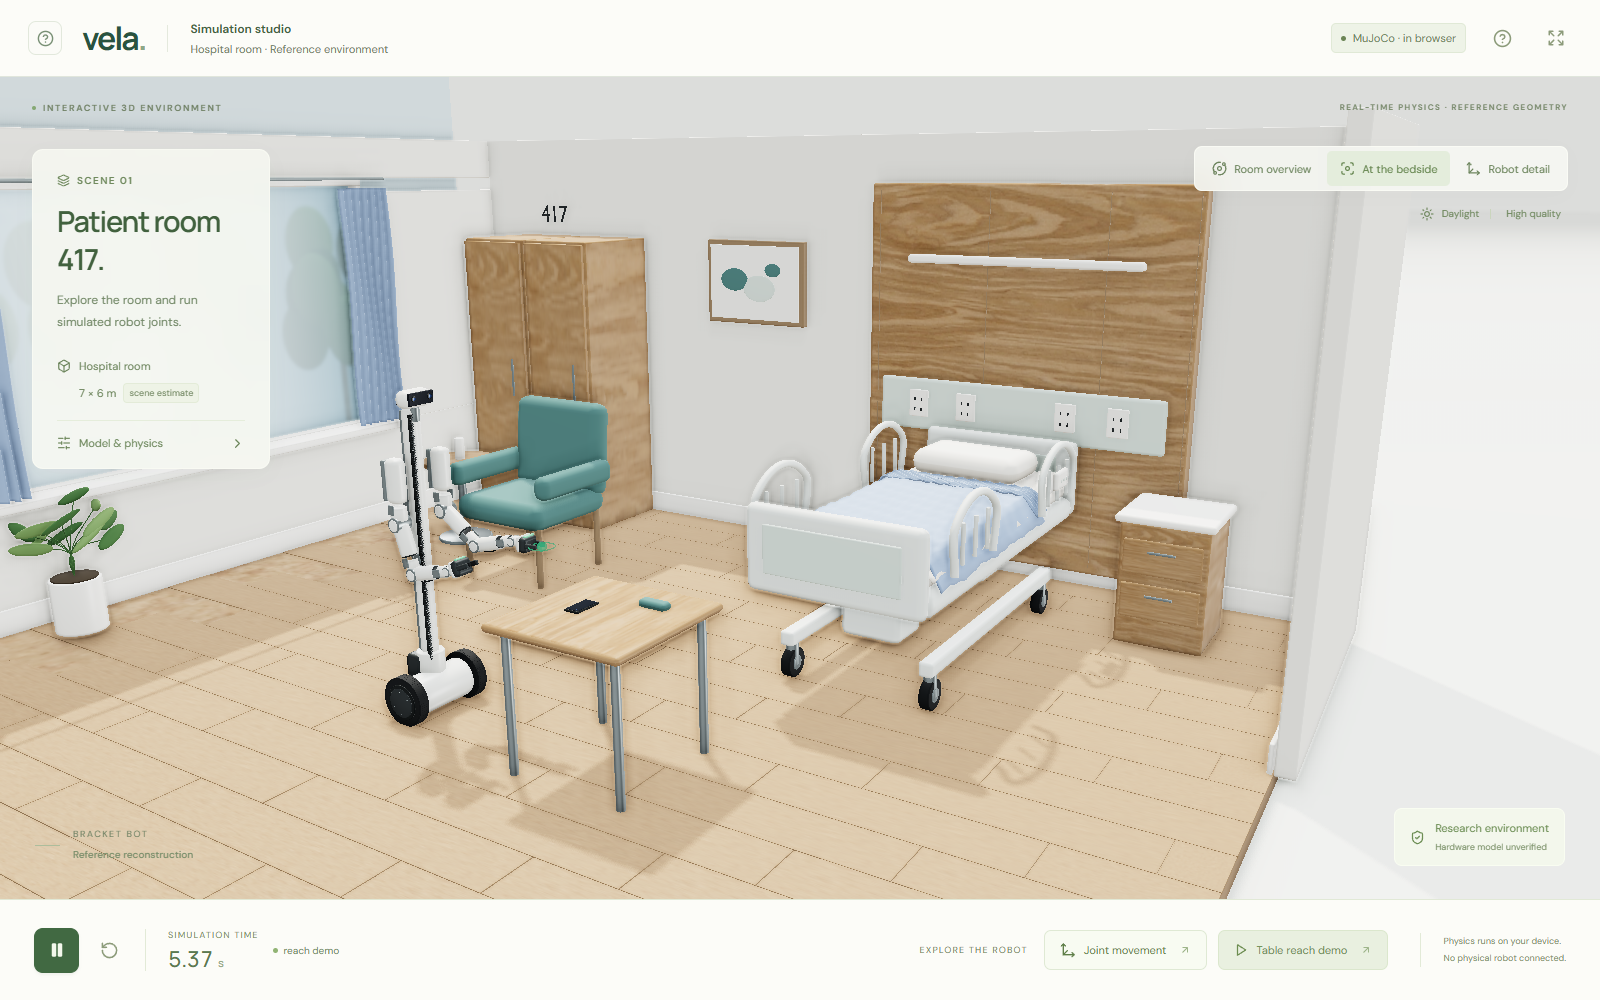
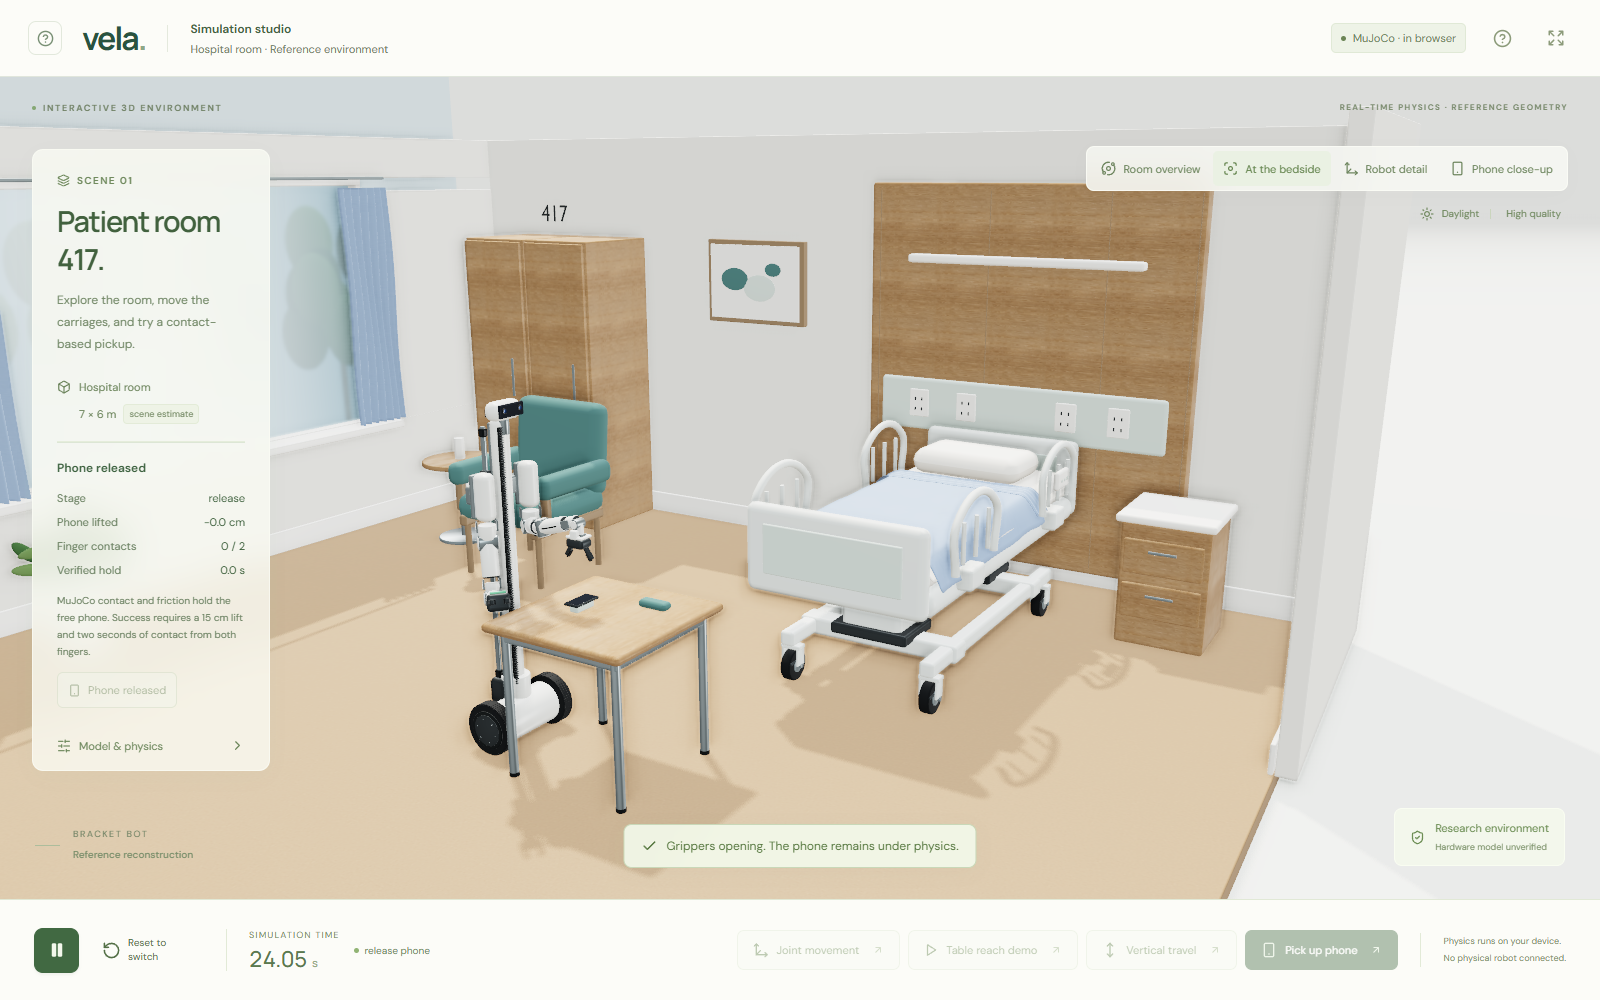
Record live contact pickup and vertical reach verification

diff --git a/docs/DEPLOYMENT.md b/docs/DEPLOYMENT.md
@@ -4,6 +4,8 @@
 
 Live production: **https://vela-medical-bot.vercel.app**. Source: **https://github.com/AhmadAli137/Vela-Medical-Bot** (private repository). The Vercel project is connected to GitHub; pushes to `main` trigger production builds. The initial production deployment reached `Ready` on September 12, 2026, and the public URL returned HTTP 200 without sign-in.
 
+The geometry and physical pickup correction (`ce06e0d`) deployed successfully on September 13, 2026. Anonymous Chrome verified the production joint motion, low/high travel, contact pickup, sustained hold and gravity release with zero browser or network errors. [Measured result](../artifacts/vercel-browser-check.json).
+
 The public build runs the reference robot's MuJoCo 3.13.0 physics inside the browser using the official `@mujoco/mujoco` WebAssembly package. It includes three GLBs, the estimated MJCF model, 28 synchronized bodies (27 robot plus one free phone), joint and vertical-travel demonstrations, runtime Jacobian IK and contact-driven pickup/release. The phone starts on a visible 35 mm rest; there is no weld or kinematic object attachment. Each visitor has an independent, ephemeral simulation. No Python server, shared task database, paid model API, robot connection, or recorded-pose playback is required for this view.
 
 The full staff/patient/fleet/research workspace remains the separate local Python application described below. The public build opens the 3D view and explains this boundary instead of exposing disconnected operational controls.

diff --git a/docs/TESTING.md b/docs/TESTING.md
@@ -16,6 +16,8 @@ The GLB audit validates **28 body poses**: 27 robot bodies and the separate dyna
 
 ## Browser verification
 
+The corrected **live Vercel deployment passed anonymous Chrome verification** on September 13, 2026 in **70.601 seconds**. All 25 joints moved, 28 bodies synchronized, hand heights reached 0.1325–1.7239 m, and the phone rose 22.84 cm with bilateral contact before falling on release. There were zero browser errors, failed requests or local API calls. [Production report](../artifacts/vercel-browser-check.json), [live pickup screenshot](../apps/web/artifacts/vercel-pickup.png).
+
 All **11 actual MuJoCo WebAssembly tests passed** in 11.693 seconds. The browser controller lifts the phone 22.7889 cm, sustains bilateral contact for 15.918 seconds in the measured run, and releases it under gravity. It also passes the forced collision-stop regression and native pose/reach parity checks. [WASM contact measurements](../artifacts/browser-contact-physics.json).
 
 The full Chrome check on the static build passed in **72.646 seconds**, with zero browser errors, failed requests or local API calls. It exercised all 25 joints, pause, reach, low/high travel, pickup, sustained hold and gravity release. All five scene requests used the same asset revision. [Browser report](../artifacts/public-browser-check.json), [pickup screenshot](../apps/web/artifacts/public-pickup.png), [recorded demonstration](../apps/web/artifacts/contact-pickup-demo.mp4).
